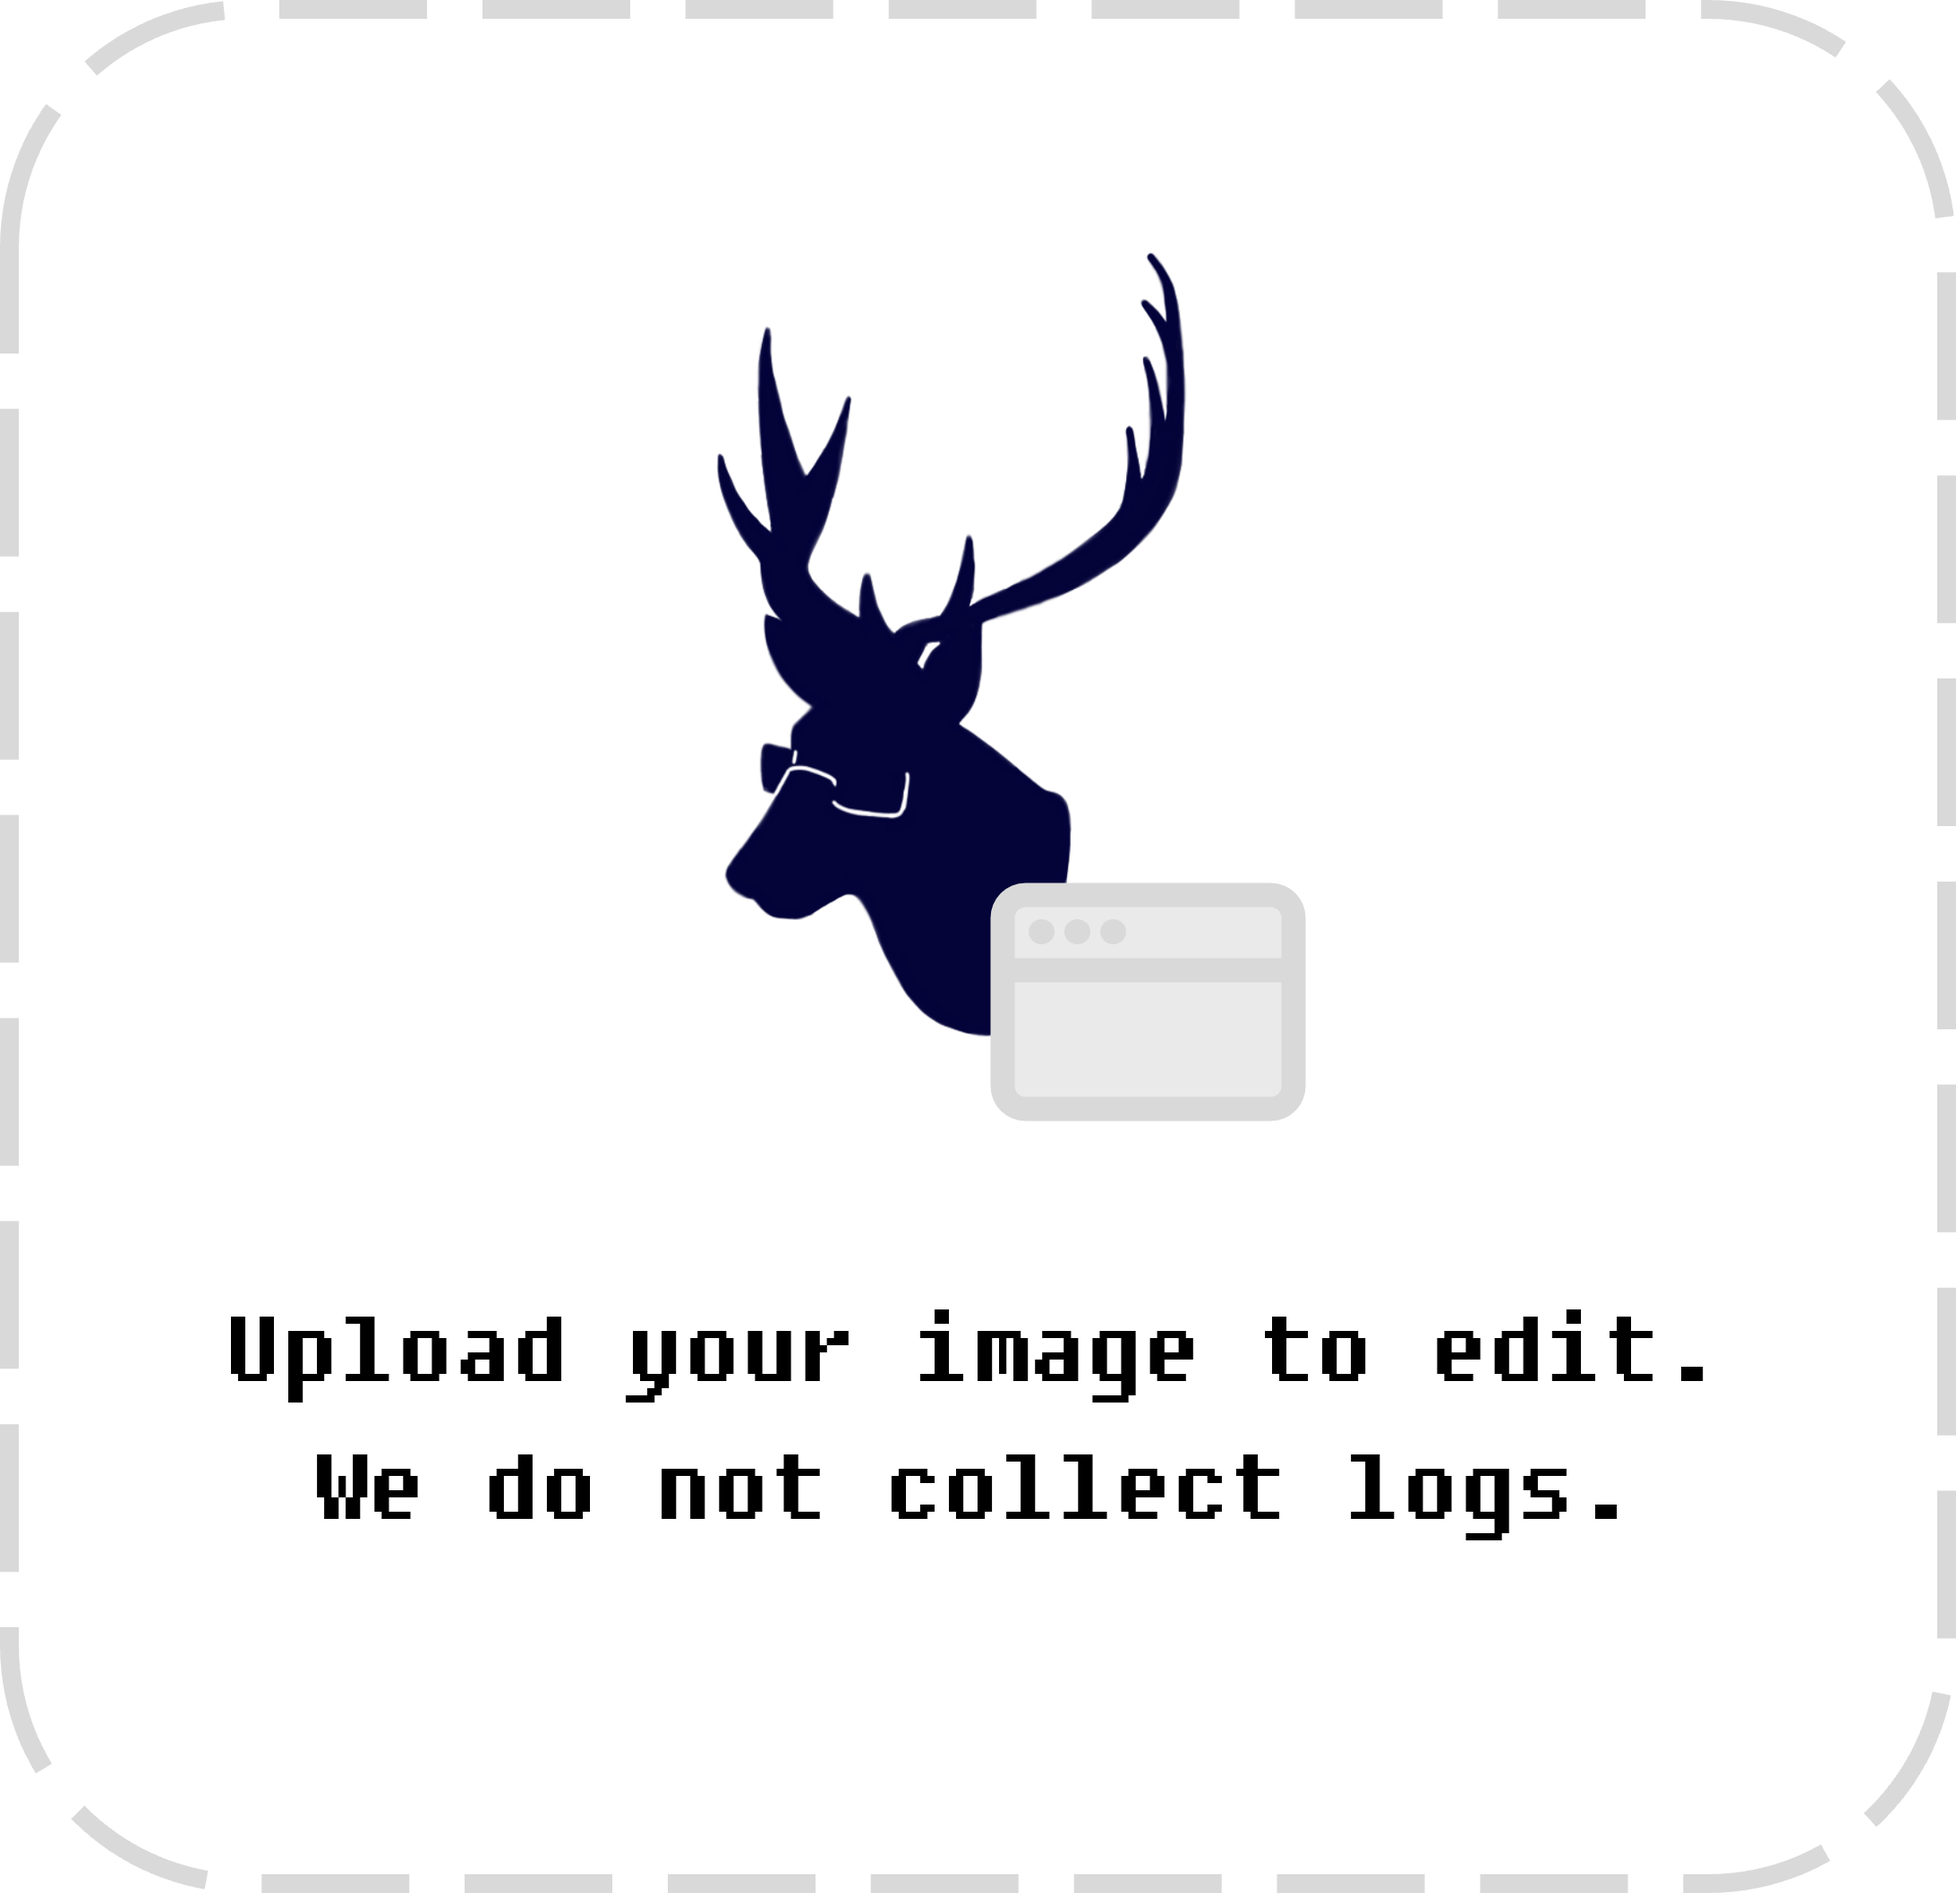
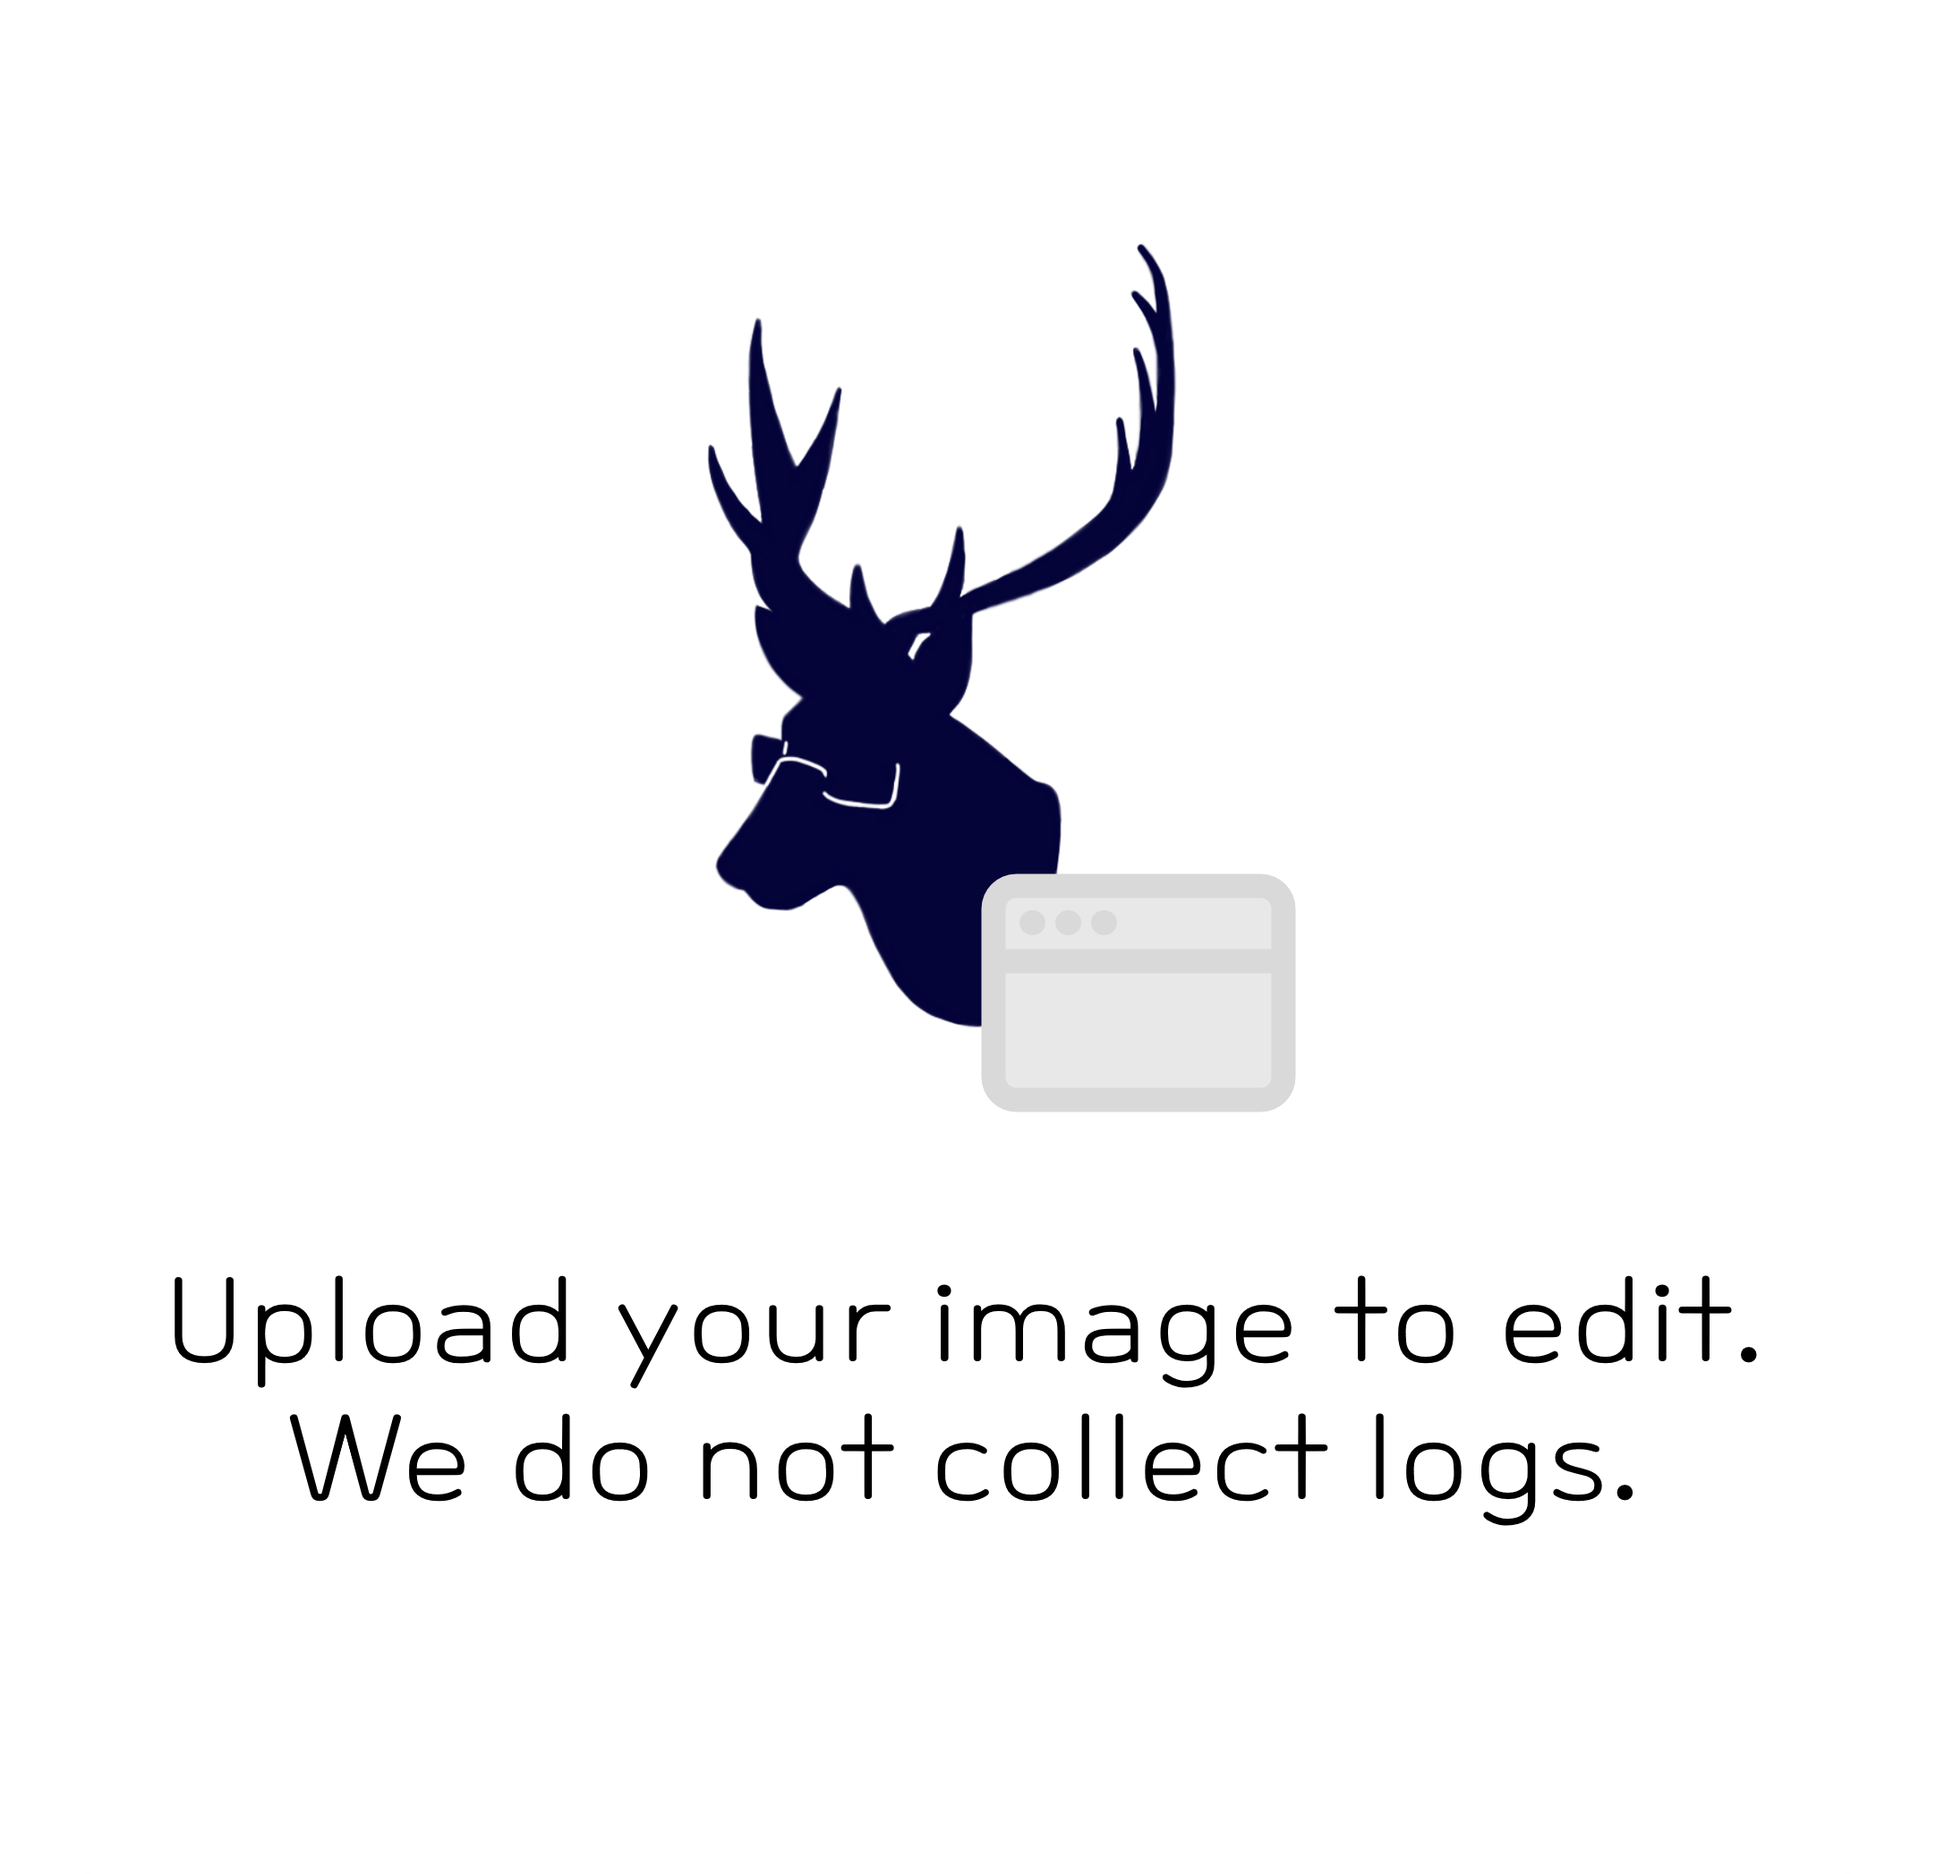
mainpage hover, font

diff --git a/src/mainstyles.css b/src/mainstyles.css
@@ -5,6 +5,18 @@
   font-weight: normal;
   font-style: normal;
 }
+@font-face {
+  font-family: 'CWDangamAsac-Bold';
+  src: url('https://fastly.jsdelivr.net/gh/projectnoonnu/noonfonts_2108@1.1/CWDangamAsac-Bold.woff') format('woff');
+  font-weight: normal;
+  font-style: normal;
+}
+@font-face {
+  font-family: 'Cafe24SsurroundAir';
+  src: url('https://gcore.jsdelivr.net/gh/projectnoonnu/noonfonts_2105_2@1.0/Cafe24SsurroundAir.woff') format('woff');
+  font-weight: normal;
+  font-style: normal;
+}
 
 .main-page, .home-page, .chat-page {
   min-height: 100vh;
@@ -28,7 +40,9 @@
 }
 
 .App {
-  font-family: 'NeoDunggeunmo', monospace;
+  /* font-family: 'NeoDunggeunmo', monospace; */
+  /* font-family: 'Orbit-Regular'; */
+  font-family: 'Cafe24SsurroundAir';
   font-optical-sizing: auto;
   min-height: 100vh;
   display: flex;
@@ -41,7 +55,7 @@
 /* 메인화면 */
 .user-wrap {
   position: absolute;
-  top: 50%;
+  top: 48%;
   left: 50%;
   transform: translate(-50%, -50%);
   display: flex;
@@ -51,13 +65,6 @@
   width: 100%;
 }
 
-.user-wrap:hover .main-logo img {
-  transition: opacity ease 0.3s;
-  opacity: 0.5;
-  transition: transform ease 0.3s;
-  /* transform: scale(1.2); */
-}
-
 .main-logo {
   position: relative;
   display: flex;
@@ -65,18 +72,18 @@
   align-items: center;
 }
 
-.main-logo > img {
+.main-logo img {
   width: 65%;
   height: auto;
-  transition: opacity 0.3s ease;
+  transition: transform 0.5s ease, filter 0.3s ease;
 }
 
-.main-logo p {
+.main-logo p, .main-logo h1 {
   position: absolute;
   left: 50%;
   top: 80%;
   transform: translate(-50%, -70%);
-  color: rgb(0, 0, 0);
+  color: #040439;
   font-size: 5.5rem;
   margin: 0;
   pointer-events: none;
@@ -84,13 +91,33 @@
   white-space: nowrap;
 }
 
-.main-logo p:first-of-type {
-  text-shadow: 2px 2px 4px rgba(0, 0, 74, 0.399);
-  margin-top: 100px;
+@keyframes shine {
+  0% {
+    background-position: 100% 0;
+  }
+  100% {
+    background-position: -100% 0;
+  }
 }
 
-.main-logo p:last-of-type {
+.main-logo h1{
+  font-family: 'CWDangamAsac-Bold';
+  margin-top: 90px;  
+}
+
+.main-logo img:hover ~ h1 {
+  background: linear-gradient(-75deg, #040439 30%, #04043992 50%, #040439 70%); 
+  background-size: 200% 100%;
+  background-clip: text;
+  -webkit-background-clip: text;
+  -webkit-text-fill-color: transparent;
+  color: transparent;
+  animation: shine 4s linear infinite;
+}
+
+.main-logo p {
   margin-top: 150px;
+  font-weight: bold;
   font-size: 2rem;  
   color: #848484;
 }
@@ -116,17 +143,16 @@
 }
 
 .home-header > h1 {
-  padding-top: 10px;
-  font-size: 50px;
+  font-family: 'CWDangamAsac-Bold';
+  font-size: 45px;
   font-weight: bold;
-  margin-bottom: 0;
   background-clip: text;
-  color: black;
+  color: #040439;
 }
 
 .home-button {
   position: absolute;
-  top: 10px;
+  top: 13px;
   right: 20px;
 }
 
@@ -171,6 +197,7 @@
   height: calc(100vh - 980px);
   z-index: 1000;
 }
+
 
 .sidebar ul li:hover {
   color: black;
@@ -337,7 +364,7 @@
   height: 50px;
   margin-top: 10px;
   padding: 5px 20px;
-  border-radius: 50px;
+  border-radius: 20px;
   border: none;
   color: black;
   background-color: transparent;
@@ -346,7 +373,7 @@
 }
 
 .button:hover {
-  box-shadow: 0 5px 10px rgba(0, 0, 0, 0.248);
+  box-shadow: 0 5px 10px -3px rgba(0, 0, 0, 0.248);
 }
 
 /* 입력창에 입력안했을 때 상태 */
@@ -365,7 +392,7 @@
   top: 0;
   left: 0;
   width: 100%;
-  padding-top: 10px;
+  padding-top: 13px;
   padding-right: 20px;
   padding-bottom: 10px;
   display: flex;
@@ -383,7 +410,8 @@
   bottom: 100px;
   left: 50%;
   transform: translateX(-50%);
-  width: 100%;
+  /* width: 80%; */
+  width: 400px;
   height: auto;
   padding: 0 10px;
   background-origin: padding-box;
@@ -398,31 +426,35 @@
   justify-content: center;
   overflow:auto;
   padding: 10px;
+  overflow: hidden;
 }
 
 .uploadImage {
-  width: 600px;
+  width: 400px;
+  /* width: 85%; */
   height: auto;
+  /* height: 500px; */
   transition: 0.3s;
-  margin-bottom: 20px;
+  margin-bottom: 3px;
   object-fit: cover;
-  border-radius: 76px;
-  transition: background-image 0.3s ease;
+  border-radius: 25px;
+  transition: transform 0.3s ease;
+  object-fit: cover;
+  border: 3px solid #ccc;
 }
 
 .uploadImage:hover {
-  box-shadow: 0 5px 10px rgba(0, 0, 0, 0.248);
+  transform: translateY(-10px);
 }
 
-.button-container {
-  display: flex;
-  gap: 10px;
+.image-upload button{
+  background-color: #fff;
 }
 
 .chat-container {
   position: fixed;
-  top: 60px;
-  bottom: 100px;
+  top: 75px;
+  bottom: 170px;
   left: 50%;
   transform: translateX(-50%);
   width: 100%;
@@ -447,10 +479,14 @@
   flex-direction: column;
   text-align: justify;
   min-height: fit-content; 
+  width: 45%;
 }
 
 .message-img-container > img {
-  width: 30%;
+  /* width: 45%; */
+  width: 300px;
+  align-self: flex-end;
+  margin-left: auto;
 }
 
 .message-container > div {
@@ -458,21 +494,25 @@
 }
 
 .user, .bot {
-  border: 3px solid black;
-  background: #eaeaea;
+  border-radius: 20px;
+  /* border: 1px solid rgb(149, 149, 149); */
+  background: #ffffff;
   color: #000;
+  box-shadow: 0 5px 10px rgba(172, 172, 172, 0.248);
 }
 
 .user {
-  border-radius: 1rem 0rem 1rem 1rem;
-  background: linear-gradient(to left, #eaeaea, #a8a2a2);
-  align-items: end;
+  /* border-radius: 1rem 0rem 8rem 8rem; */
+  /* background: linear-gradient(to left, #f3f3f3, #d3d3d3); */
+  align-self: flex-end;
+  margin-left: auto;
 }
 
 .bot {
-  border-radius: 0rem 1rem 1rem 1rem;
-  background: linear-gradient(to right, #eaeaea, #a8a2a2);
-  align-items: start;
+  /* border-radius: 0rem 8rem 8rem 8rem; */
+  /* background: linear-gradient(to right, #ffffff, #d3d3d3); */
+  align-self: flex-start;
+  margin-right: auto;
 }
 
 .message-img-container {
@@ -523,13 +563,14 @@
   padding: 10px 20px;
   margin-bottom: 20px;
   border-radius: 20px;
-  border: 1px solid rgb(149, 149, 149);
+  border: 1px solid rgb(201, 201, 201);
   outline: none;
 }
 
 .input-container > button {
   border: none;
-  background-color: #007bff;
+  background-color: #ffffff;
+  border: 1px solid rgb(201, 201, 201);
   color: rgb(0, 0, 0);
   border-radius: 20px;
   cursor: pointer;

diff --git a/src/pages/Main.jsx b/src/pages/Main.jsx
@@ -22,7 +22,7 @@ const Main = () => {
         <Link to="/home">
           <div className="main-logo">
             <img src="img/IMG_4263.png" alt="" />
-            <p>DEAR IMAGE</p>
+            <h1>DEAR IMAGE</h1>
             <p>The easiest image edit tool</p>
           </div>
         </Link>

diff --git a/src/pages/component/ChatHeaderContainer.jsx b/src/pages/component/ChatHeaderContainer.jsx
@@ -11,8 +11,11 @@ export default function HeaderContainer({ onResetChatSelected }) {
   };
 
   return (
+    <header className="home-header">
+      <h1>DEAR IMAGE</h1>
     <div className="chat-header">
         <Button text="Reset" onClick={handleResetClick} />
     </div>
+    </header>
   );
 }
